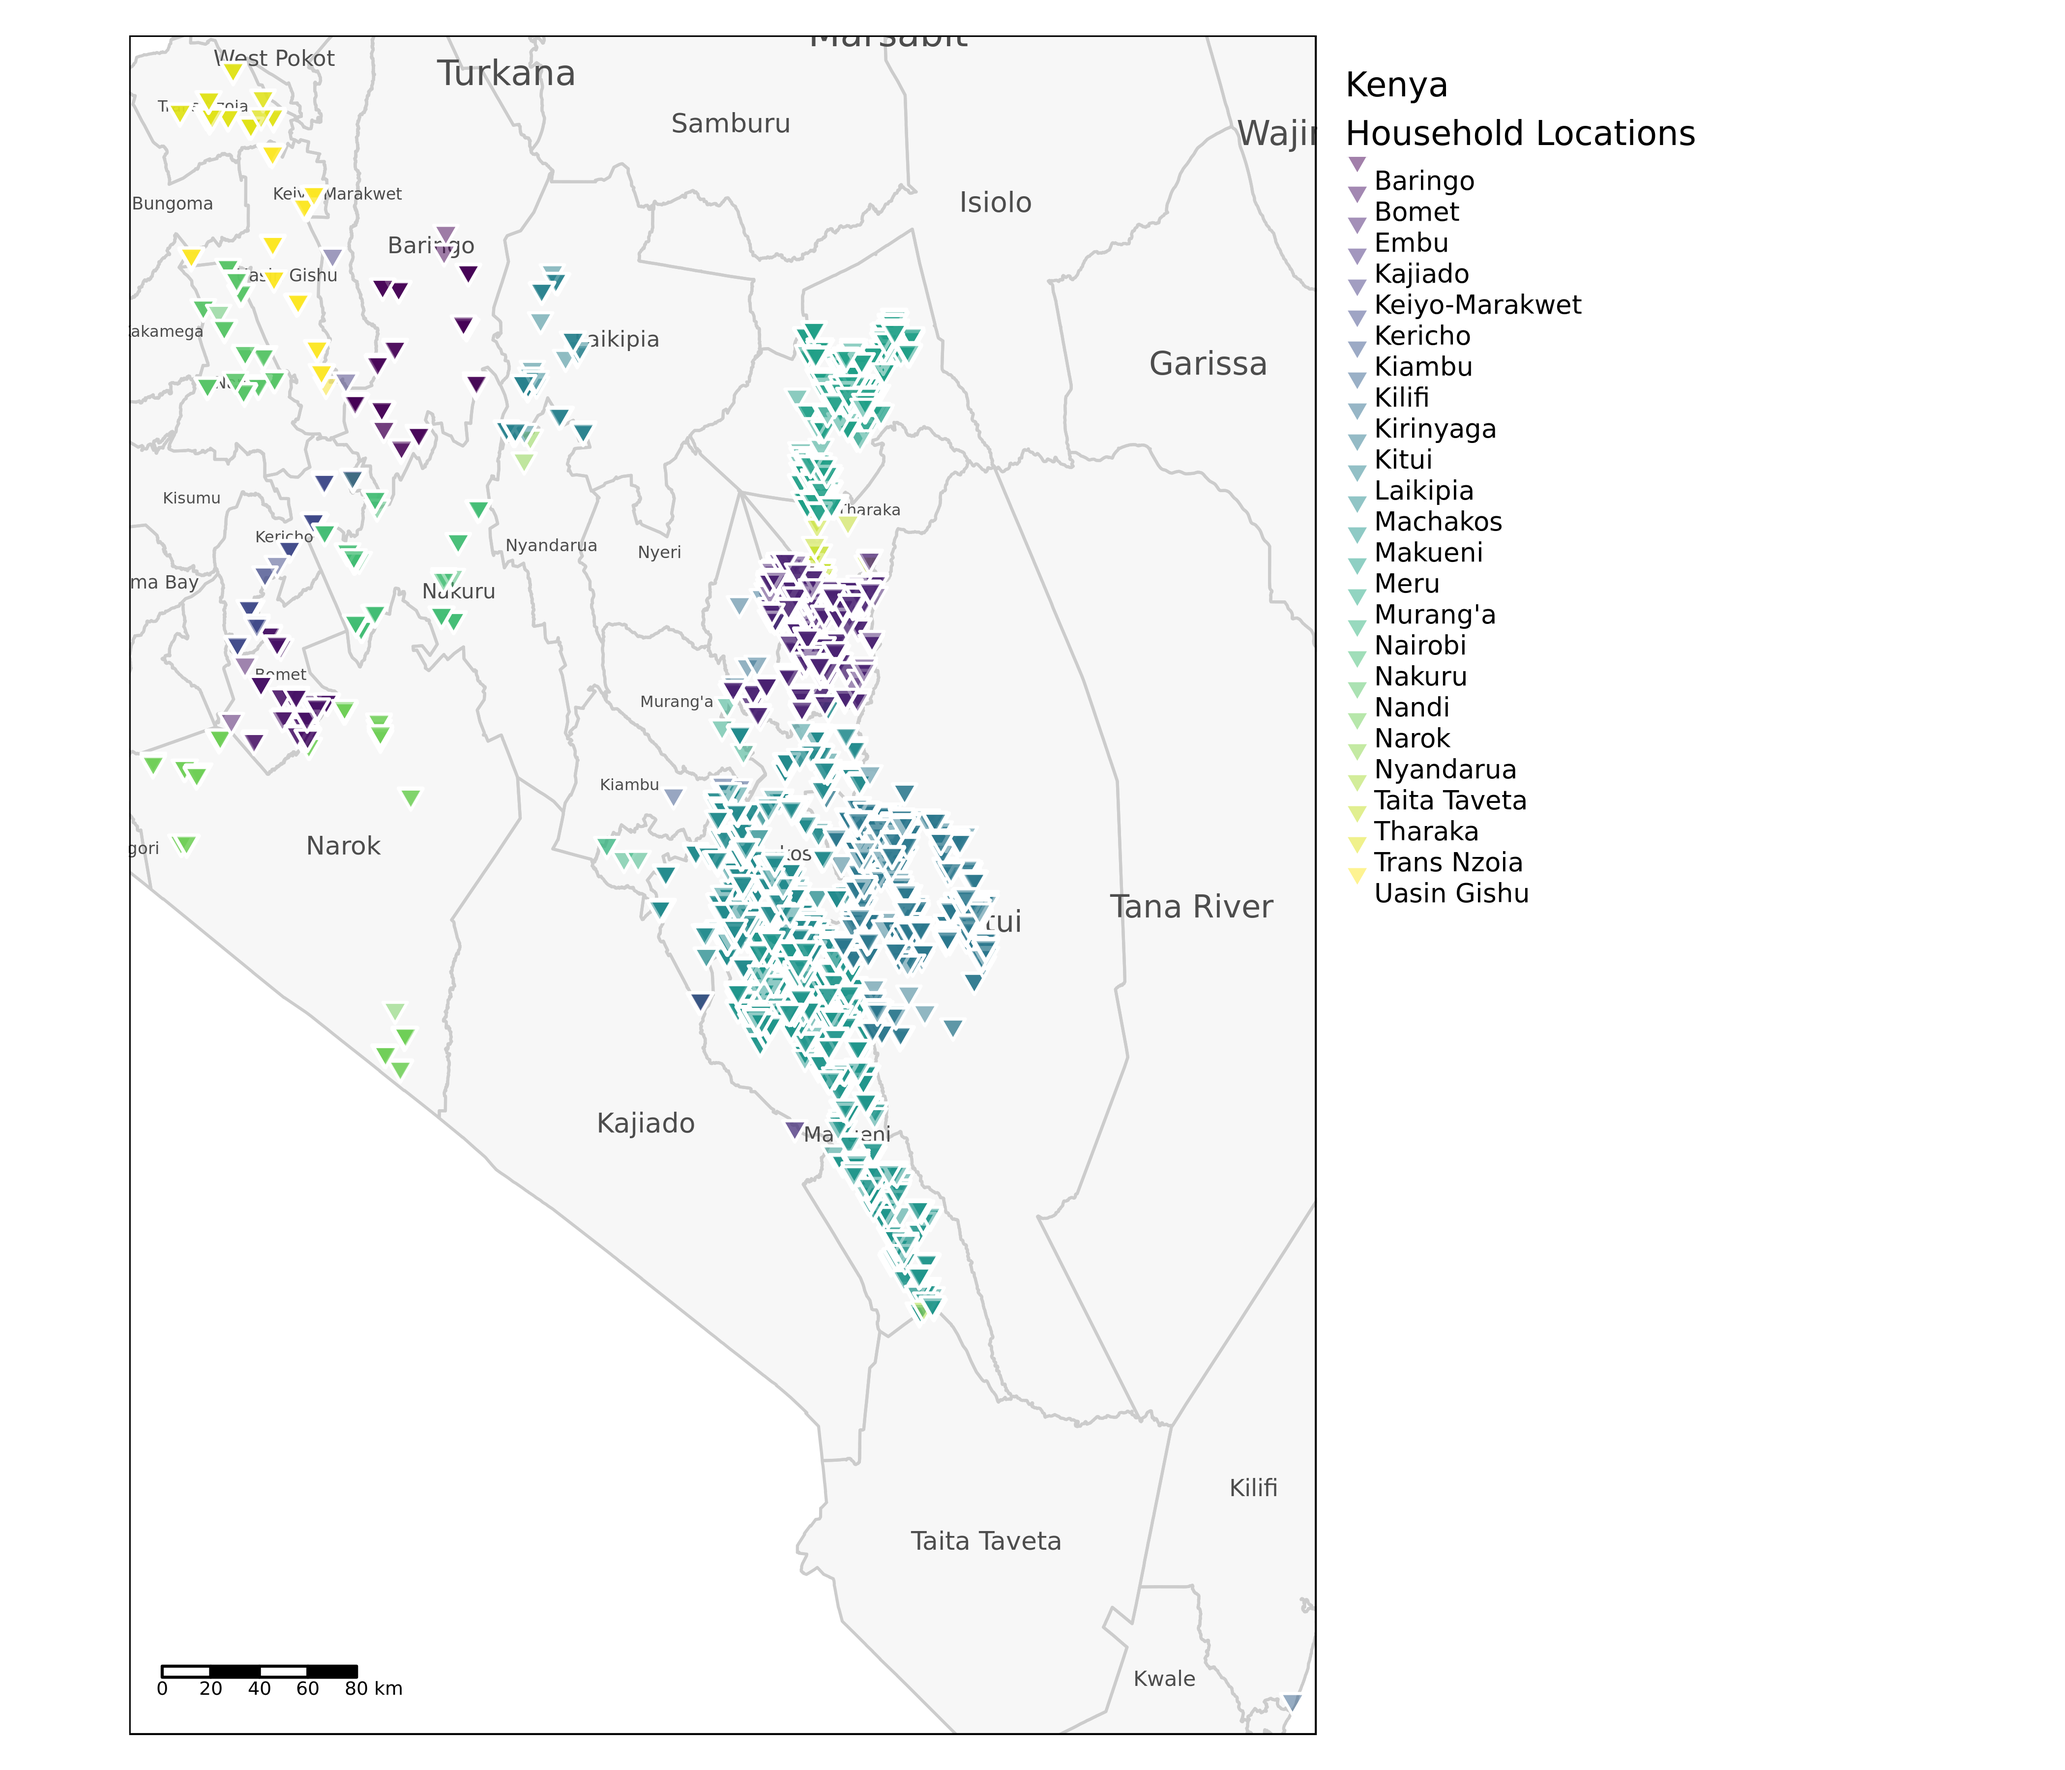
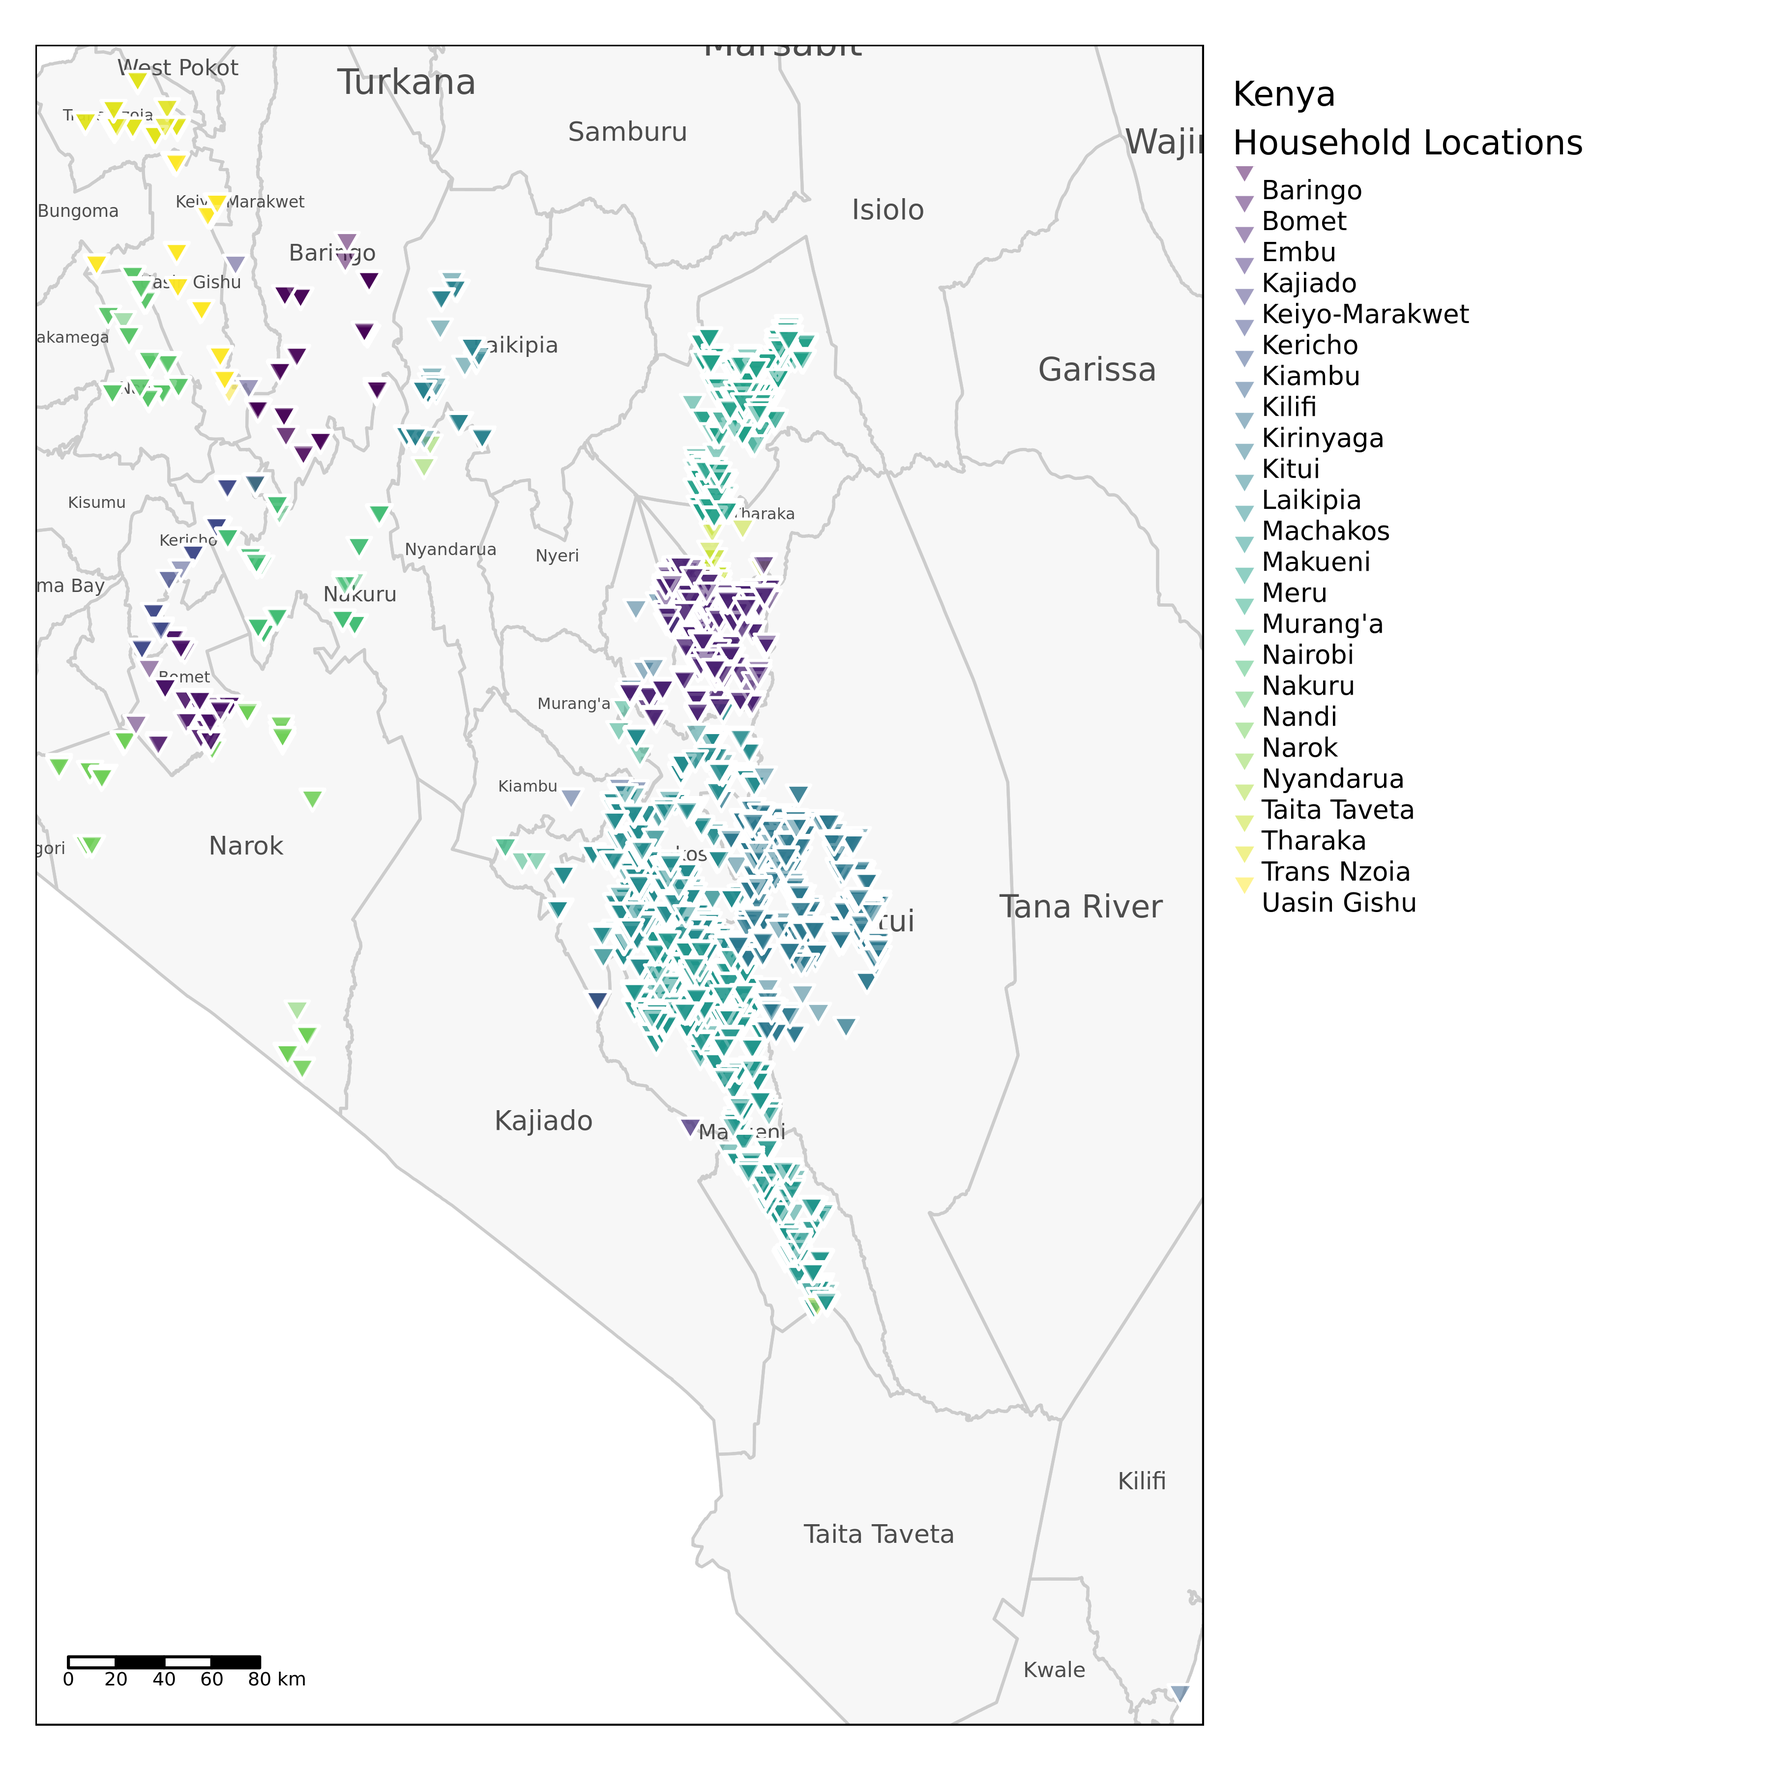
Fig widths

diff --git a/docs/references.html b/docs/references.html
@@ -1,0 +1,165 @@
+<!DOCTYPE html>
+<html >
+
+<head>
+
+  <meta charset="UTF-8">
+  <meta http-equiv="X-UA-Compatible" content="IE=edge">
+  <title>Geospatial Characteristics</title>
+  <meta name="description" content="Biophysical, socio-economic, and market information derived from high-resolution remote sensing and modeled time series.">
+  <meta name="generator" content="bookdown 0.4 and GitBook 2.6.7">
+
+  <meta property="og:title" content="Geospatial Characteristics" />
+  <meta property="og:type" content="book" />
+  
+  <meta property="og:image" content="fig/cover.jpg" />
+  <meta property="og:description" content="Biophysical, socio-economic, and market information derived from high-resolution remote sensing and modeled time series." />
+  
+
+  <meta name="twitter:card" content="summary" />
+  <meta name="twitter:title" content="Geospatial Characteristics" />
+  
+  <meta name="twitter:description" content="Biophysical, socio-economic, and market information derived from high-resolution remote sensing and modeled time series." />
+  <meta name="twitter:image" content="fig/cover.jpg" />
+
+<meta name="author" content="BACOU, Melanie for AgResults (Abt Associates)">
+
+
+
+  <meta name="viewport" content="width=device-width, initial-scale=1">
+  <meta name="apple-mobile-web-app-capable" content="yes">
+  <meta name="apple-mobile-web-app-status-bar-style" content="black">
+  
+  
+<link rel="prev" href="data-sources-and-preprocessing.html">
+
+<script src="libs/jquery-2.2.3/jquery.min.js"></script>
+<link href="libs/gitbook-2.6.7/css/style.css" rel="stylesheet" />
+<link href="libs/gitbook-2.6.7/css/plugin-bookdown.css" rel="stylesheet" />
+<link href="libs/gitbook-2.6.7/css/plugin-highlight.css" rel="stylesheet" />
+<link href="libs/gitbook-2.6.7/css/plugin-search.css" rel="stylesheet" />
+<link href="libs/gitbook-2.6.7/css/plugin-fontsettings.css" rel="stylesheet" />
+
+
+
+
+
+
+
+
+
+
+<link rel="stylesheet" href="css/book.css" type="text/css" />
+</head>
+
+<body>
+
+
+
+  <div class="book without-animation with-summary font-size-2 font-family-1" data-basepath=".">
+
+    <div class="book-summary">
+      <nav role="navigation">
+
+<ul class="summary">
+<li><a href="./"><img src="fig/logo.png" width="auto" /></a></li>
+
+<li class="divider"></li>
+<li class="chapter" data-level="1" data-path="index.html"><a href="index.html"><i class="fa fa-check"></i><b>1</b> Survey Sampling</a><ul>
+<li class="chapter" data-level="1.1" data-path="index.html"><a href="index.html#nigeria"><i class="fa fa-check"></i><b>1.1</b> Nigeria</a></li>
+<li class="chapter" data-level="1.2" data-path="index.html"><a href="index.html#kenya"><i class="fa fa-check"></i><b>1.2</b> Kenya</a></li>
+<li class="chapter" data-level="1.3" data-path="index.html"><a href="index.html#uganda"><i class="fa fa-check"></i><b>1.3</b> Uganda</a></li>
+</ul></li>
+<li class="chapter" data-level="2" data-path="data-sources-and-preprocessing.html"><a href="data-sources-and-preprocessing.html"><i class="fa fa-check"></i><b>2</b> Data Sources and Preprocessing</a><ul>
+<li class="chapter" data-level="2.1" data-path="data-sources-and-preprocessing.html"><a href="data-sources-and-preprocessing.html#climatic-indicators"><i class="fa fa-check"></i><b>2.1</b> Climatic Indicators</a><ul>
+<li class="chapter" data-level="2.1.1" data-path="data-sources-and-preprocessing.html"><a href="data-sources-and-preprocessing.html#fewsnet"><i class="fa fa-check"></i><b>2.1.1</b> FEWSNET</a></li>
+<li class="chapter" data-level="2.1.2" data-path="data-sources-and-preprocessing.html"><a href="data-sources-and-preprocessing.html#worldclim"><i class="fa fa-check"></i><b>2.1.2</b> WorldClim</a></li>
+<li class="chapter" data-level="2.1.3" data-path="data-sources-and-preprocessing.html"><a href="data-sources-and-preprocessing.html#other-sources"><i class="fa fa-check"></i><b>2.1.3</b> Other Sources</a></li>
+</ul></li>
+<li class="chapter" data-level="2.2" data-path="data-sources-and-preprocessing.html"><a href="data-sources-and-preprocessing.html#drought"><i class="fa fa-check"></i><b>2.2</b> Drought</a></li>
+<li class="chapter" data-level="2.3" data-path="data-sources-and-preprocessing.html"><a href="data-sources-and-preprocessing.html#soil-characteristics"><i class="fa fa-check"></i><b>2.3</b> Soil Characteristics</a></li>
+<li class="chapter" data-level="2.4" data-path="data-sources-and-preprocessing.html"><a href="data-sources-and-preprocessing.html#market-access"><i class="fa fa-check"></i><b>2.4</b> Market Access</a></li>
+</ul></li>
+<li class="chapter" data-level="3" data-path="references.html"><a href="references.html"><i class="fa fa-check"></i><b>3</b> References</a></li>
+</ul>
+
+      </nav>
+    </div>
+
+    <div class="book-body">
+      <div class="body-inner">
+        <div class="book-header" role="navigation">
+          <h1>
+            <i class="fa fa-circle-o-notch fa-spin"></i><a href="./">Geospatial Characteristics</a>
+          </h1>
+        </div>
+
+        <div class="page-wrapper" tabindex="-1" role="main">
+          <div class="page-inner">
+
+            <section class="normal" id="section-">
+<div id="references" class="section level1">
+<h1><span class="header-section-number">Section 3</span> References</h1>
+
+<div id="refs" class="references">
+<div>
+<p>Barlow, M. (n.d.). Global meteorological drought: A synthesis of current understanding with a focus on sst drivers of precipitation deficits. Retrieved from <a href="http://digital.csic.es/handle/10261/133207" class="uri">http://digital.csic.es/handle/10261/133207</a></p>
+</div>
+<div>
+<p>Beguería, S. (n.d.). SPEIbase v.2.4. Retrieved from <a href="http://digital.csic.es/handle/10261/128892" class="uri">http://digital.csic.es/handle/10261/128892</a></p>
+</div>
+</div>
+</div>
+            </section>
+
+          </div>
+        </div>
+      </div>
+<a href="data-sources-and-preprocessing.html" class="navigation navigation-prev navigation-unique" aria-label="Previous page"><i class="fa fa-angle-left"></i></a>
+
+    </div>
+  </div>
+<script src="libs/gitbook-2.6.7/js/app.min.js"></script>
+<script src="libs/gitbook-2.6.7/js/lunr.js"></script>
+<script src="libs/gitbook-2.6.7/js/plugin-search.js"></script>
+<script src="libs/gitbook-2.6.7/js/plugin-sharing.js"></script>
+<script src="libs/gitbook-2.6.7/js/plugin-fontsettings.js"></script>
+<script src="libs/gitbook-2.6.7/js/plugin-bookdown.js"></script>
+<script src="libs/gitbook-2.6.7/js/jquery.highlight.js"></script>
+<script>
+require(["gitbook"], function(gitbook) {
+gitbook.start({
+"sharing": {
+"github": true,
+"facebook": false,
+"twitter": false,
+"google": false,
+"weibo": false,
+"instapper": false,
+"vk": false,
+"all": ["facebook", "google", "twitter", "weibo", "instapaper"]
+},
+"fontsettings": {
+"theme": "white",
+"family": "sans",
+"size": 1
+},
+"edit": {
+"link": "https://github.com/mbacou/2017-abt/blob/master/R/03-references.Rmd",
+"text": "Edit"
+},
+"download": null,
+"toc": {
+"collapse": "subsection",
+"scroll_highlight": true
+},
+"toolbar": {
+"position": "fixed"
+}
+});
+});
+</script>
+
+</body>
+
+</html>

diff --git a/docs/data-sources-and-preprocessing.html b/docs/data-sources-and-preprocessing.html
@@ -32,7 +32,7 @@
   
   
 <link rel="prev" href="index.html">
-
+<link rel="next" href="references.html">
 <script src="libs/jquery-2.2.3/jquery.min.js"></script>
 <link href="libs/gitbook-2.6.7/css/style.css" rel="stylesheet" />
 <link href="libs/gitbook-2.6.7/css/plugin-bookdown.css" rel="stylesheet" />
@@ -80,6 +80,7 @@
 <li class="chapter" data-level="2.3" data-path="data-sources-and-preprocessing.html"><a href="data-sources-and-preprocessing.html#soil-characteristics"><i class="fa fa-check"></i><b>2.3</b> Soil Characteristics</a></li>
 <li class="chapter" data-level="2.4" data-path="data-sources-and-preprocessing.html"><a href="data-sources-and-preprocessing.html#market-access"><i class="fa fa-check"></i><b>2.4</b> Market Access</a></li>
 </ul></li>
+<li class="chapter" data-level="3" data-path="references.html"><a href="references.html"><i class="fa fa-check"></i><b>3</b> References</a></li>
 </ul>
 
       </nav>
@@ -225,13 +226,13 @@ Contains daily ARC2[arc2] and RFE[rfe] rainfall estimates for Africa at 10km res
 <p>[et]: SSEBop Evapotranspiration Products – ET is the combination of transpiration from vegetation and evaporation from soil. Actual ET (ETa) is produced using the operational SSEBop model (Senay et al., 2012) for the period 2000 to present. This model combines ET fractions generated from remotely sensed MODIS thermal imagery, acquired every 8 days, with reference ET using a thermal index approach. The unique feature of the SSEBop parameterization is that it uses pre-defined, seasonally dynamic, boundary conditions that are unique to each pixel for the “hot/dry” and “cold/wet” reference points. The actual ET data unit is millimeters (mm). The anomalies are the ratio of ETa and the corresponding median ETa, expressed as a percent value.</p>
 <p>[ndvi]: eMODIS NDVI – distributed by USGS Earth Resources Observation and Science (EROS) Center. Satellite-derived vegetation products generated from the Moderate Resolution Imaging Spectroradiometer (MODIS). These products, known as “eMODIS,” respond to operational land monitoring applications requiring near-real time Normalized Difference Vegetation Index (NDVI) data for comparison against historical records. Real-time and historical NDVI products are composited in 10-day intervals every 5 days on a Geographic mapping grid.</p>
 <p>The series of maps below show all FEWSNET indicators (most recent data point) used in this study layered over Nigeria’s household locations. These maps provide a good perspective of scale and resolution.</p>
-<div class="figure" style="text-align: left"><span id="fig:fews-chirp-nga"></span>
+<div class="figure"><span id="fig:fews-chirp-nga"></span>
 <img src="fig/fews-chirp-nga-1.png" alt="CHIRPS v2.0 (May 2017, mm)" width="900" />
 <p class="caption">
 Fig. 2.2: CHIRPS v2.0 (May 2017, mm)
 </p>
 </div>
-<div class="figure" style="text-align: left"><span id="fig:fews-chirp-ken"></span>
+<div class="figure"><span id="fig:fews-chirp-ken"></span>
 <img src="fig/fews-chirp-ken-1.png" alt="CHIRPS v2.0 (May 2017, mm)" width="900" />
 <p class="caption">
 Fig. 2.3: CHIRPS v2.0 (May 2017, mm)
@@ -384,14 +385,6 @@ Fig. 2.3: CHIRPS v2.0 (May 2017, mm)
 <div id="market-access" class="section level2">
 <h2><span class="header-section-number">2.4</span> Market Access</h2>
 
-<div id="refs" class="references">
-<div>
-<p>Barlow, M. (n.d.). Global meteorological drought: A synthesis of current understanding with a focus on sst drivers of precipitation deficits. Retrieved from <a href="http://digital.csic.es/handle/10261/133207" class="uri">http://digital.csic.es/handle/10261/133207</a></p>
-</div>
-<div>
-<p>Beguería, S. (n.d.). SPEIbase v.2.4. Retrieved from <a href="http://digital.csic.es/handle/10261/128892" class="uri">http://digital.csic.es/handle/10261/128892</a></p>
-</div>
-</div>
 </div>
 </div>
             </section>
@@ -399,8 +392,8 @@ Fig. 2.3: CHIRPS v2.0 (May 2017, mm)
           </div>
         </div>
       </div>
-<a href="index.html" class="navigation navigation-prev navigation-unique" aria-label="Previous page"><i class="fa fa-angle-left"></i></a>
-
+<a href="index.html" class="navigation navigation-prev " aria-label="Previous page"><i class="fa fa-angle-left"></i></a>
+<a href="references.html" class="navigation navigation-next " aria-label="Next page"><i class="fa fa-angle-right"></i></a>
     </div>
   </div>
 <script src="libs/gitbook-2.6.7/js/app.min.js"></script>
@@ -429,7 +422,7 @@ gitbook.start({
 "size": 1
 },
 "edit": {
-"link": "https://github.com/mbacou/2017-abt/blob/master/R/fewsnet.Rmd",
+"link": "https://github.com/mbacou/2017-abt/blob/master/R/01-fewsnet.Rmd",
 "text": "Edit"
 },
 "download": null,

diff --git a/docs/index.html b/docs/index.html
@@ -80,6 +80,7 @@
 <li class="chapter" data-level="2.3" data-path="data-sources-and-preprocessing.html"><a href="data-sources-and-preprocessing.html#soil-characteristics"><i class="fa fa-check"></i><b>2.3</b> Soil Characteristics</a></li>
 <li class="chapter" data-level="2.4" data-path="data-sources-and-preprocessing.html"><a href="data-sources-and-preprocessing.html#market-access"><i class="fa fa-check"></i><b>2.4</b> Market Access</a></li>
 </ul></li>
+<li class="chapter" data-level="3" data-path="references.html"><a href="references.html"><i class="fa fa-check"></i><b>3</b> References</a></li>
 </ul>
 
       </nav>
@@ -828,7 +829,7 @@ All
 </table>
 <p>There are <strong>414 households</strong> with GPS coordinates that do not fall within their recorded LGA. In the majority of instances the distance is negligeable (under 10km) and this might not affect any of the spatial estimates. In a few instances the errors are troublesome (over 40km). Households with problematic locations are highlighted on the map below.</p>
 <div class="figure"><span id="fig:nga-odd"></span>
-<img src="fig/nga-odd-1.png" alt="Households Located outside of their recorded LGA, Nigeria" width="1200" />
+<img src="fig/nga-odd-1.png" alt="Households Located outside of their recorded LGA, Nigeria" width="1800" />
 <p class="caption">
 Fig. 1.1: Households Located outside of their recorded LGA, Nigeria
 </p>
@@ -1319,7 +1320,7 @@ All
 </tbody>
 </table>
 <div class="figure"><span id="fig:ken-hh"></span>
-<img src="fig/ken-hh-1.png" alt="Households Locations across Counties, Kenya" width="2100" />
+<img src="fig/ken-hh-1.png" alt="Households Locations across Counties, Kenya" width="1800" />
 <p class="caption">
 Fig. 1.2: Households Locations across Counties, Kenya
 </p>

diff --git a/README.md b/README.md
@@ -1,2 +1,2 @@
 # 2017-agresults
-Code and documentation to augment AgResults' baseline datasets
+Code and documentation to augment AgResults baseline datasets, on-line at https://mbacou.github.io/2017-agresults/.
